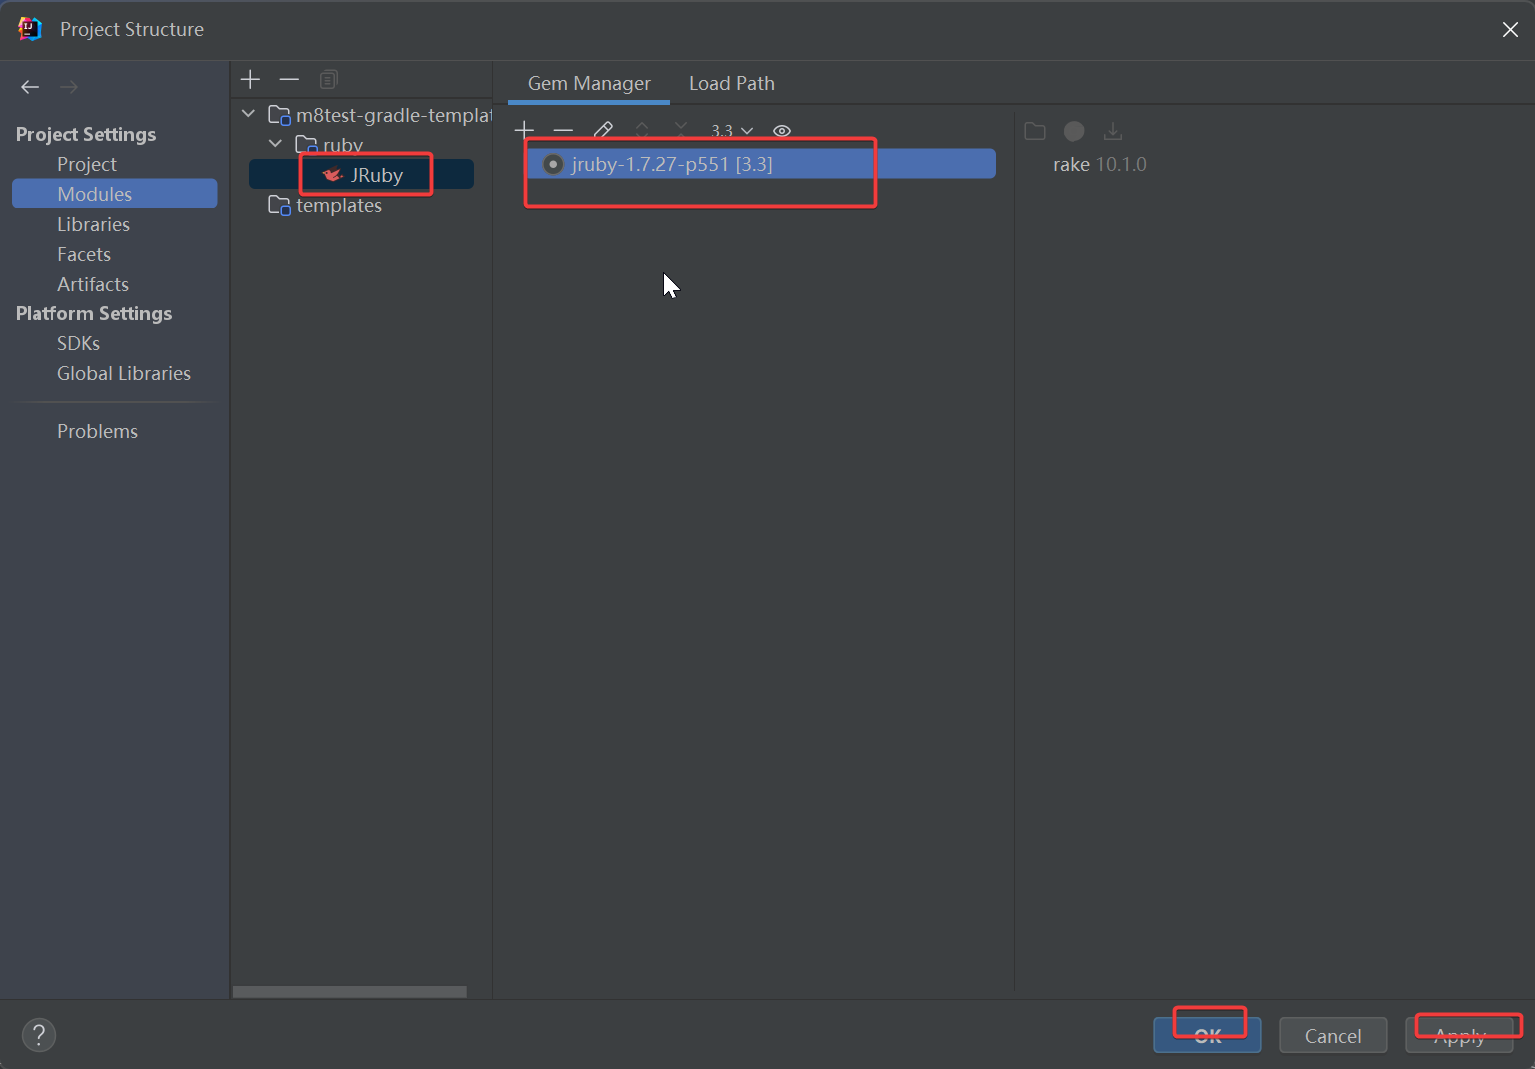
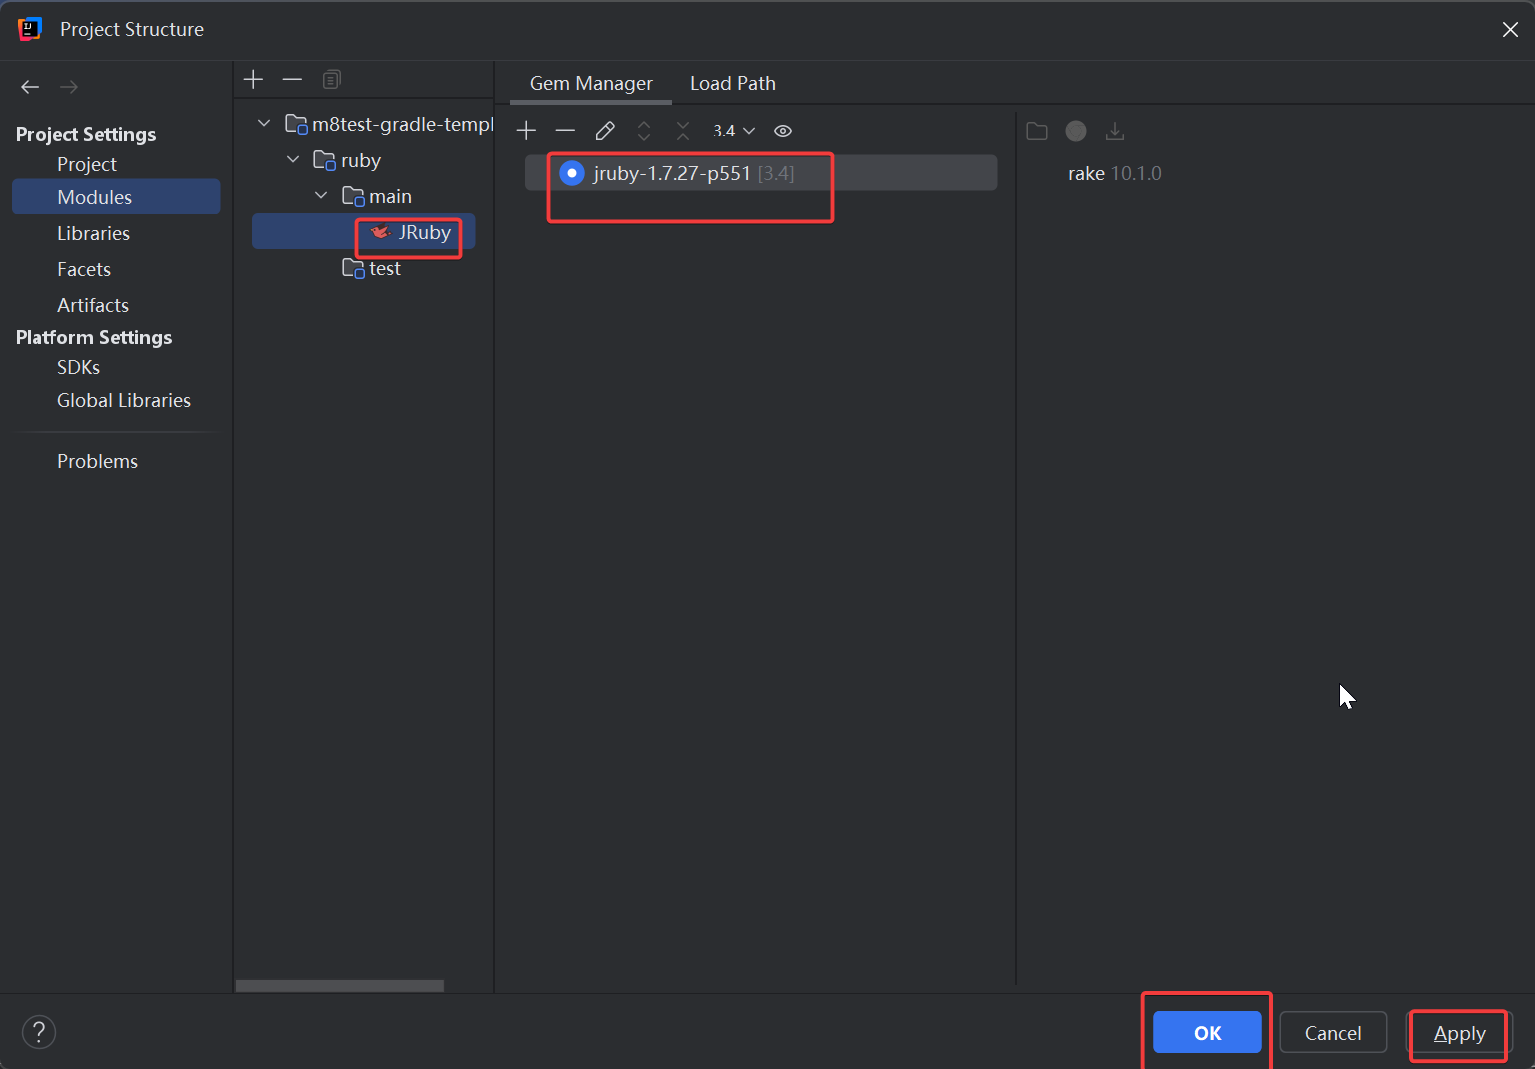
feat: 增加了UI相关代码

diff --git a/ruby/src/main/ruby/com/example/script/primary.rb b/ruby/src/main/ruby/com/example/script/primary.rb
@@ -1,0 +1,27 @@
+# 必须使用相对于src目录的路径
+require 'com/example/tool/ToolB'
+java_import "android.widget.FrameLayout"
+java_import "android.widget.Button"
+java_import "android.view.Gravity"
+toolB = ToolB.new
+toolB.methodB($console)
+# 创建需要显示在界面的内容
+$androidView.create(true) {
+  # @type frameLayout [FrameLayout]
+  |frameLayout|
+  button = Button.new(frameLayout.getContext)
+  button.setText("Hello")
+  @num = 1
+  button.setOnClickListener { |v|
+    @num += 1
+    button.setText("Hello #{@num}")
+  }
+  # java静态内部类以及静态属性需要通过双冒号(::)调用
+  layoutParams = FrameLayout::LayoutParams.new(FrameLayout::LayoutParams::WRAP_CONTENT, FrameLayout::LayoutParams::WRAP_CONTENT)
+  # 居中显示按钮
+  layoutParams.gravity = Gravity::CENTER
+  # 添加按钮到界面
+  frameLayout.addView(button, layoutParams)
+}
+# 启动界面
+$activity.start

diff --git a/ruby/src/main/ruby/com/example/tool/ToolB.rb b/ruby/src/main/ruby/com/example/tool/ToolB.rb
@@ -1,6 +1,8 @@
 require 'com/example/tool/ToolA'
+java_import "com.m8test.script.core.api.console.Console"
 
 class ToolB
+  # @param console [Console]
   def methodB(console)
     toolA = ToolA.new
     toolA.methodA(console)

diff --git a/ruby/src/main/ruby/com/example/tool/ToolA.rb b/ruby/src/main/ruby/com/example/tool/ToolA.rb
@@ -1,4 +1,7 @@
+java_import "com.m8test.script.core.api.console.Console"
+
 class ToolA
+  # @param console [Console]
   def methodA(console)
     console.log("Method A in ToolA called.")
   end

diff --git a/README.md b/README.md
@@ -7,23 +7,32 @@
 
 ## 📦 Gradle 任务说明
 
-1. **`buildM8TestRuby`**  
-   构建 M8Test Ruby 脚本项目源码，但不执行脚本。构建完成后，源码位于 `build/project` 目录。
+### 任务分组
 
-2. **`generateRubyGlobalVariables`**  
-   生成 Ruby 全局变量，提供代码提示功能。需连接安卓设备，建议在编写代码前执行一次。如果 `build.gradle.kts`
-   中的依赖组件更新，需重新执行。
+1. **`m8test-build`**  
+   M8Test构建相关任务组，包含`buildRuby`（构建Ruby项目）、`runRuby`（运行项目）等任务。
 
-3. **`handleRubyAndroidJar`**  
-   生成 Android API 的 Ruby 代码提示文件。此任务耗时较长，执行一次即可。成功后，Ruby 代码中将有 Android API
-   的代码提示。
+2. **`m8test-code-completion`**  
+   M8Test代码补全相关任务组，包含`generateRubyAllCodeCompletionFiles` （生成所有需要的代码补全文件）,
+   `generateRubyGlobalVariables`（生成全局变量代码补全文件）等任务。
 
-4. **`installJRubyInterceptor`**  
-   安装 JRuby 解析器。执行此任务会从网络下载 Ruby 并安装到 `~/.m8test/bin/jruby` 目录。若已安装 JRuby
-   解析器，执行此任务不会重新安装。
+3. **`m8test-developmenet-environment`**  
+   M8Test开发环境相关任务组，包含`installDevelopmentEnvironment`（安装开发环境）、`installRubyPlugin`（安装语言插件）等任务。
 
-5. **`runM8TestRuby`**  
-   构建 M8Test Ruby 脚本项目，并将项目推送到已连接的安卓设备上运行。
+4. **`m8test-download`**  
+   M8Test资源下载相关任务组，包含`downloadRubyCodeTemplate`（下载示例代码模板）、`downloadRubyDocs`（下载文档）等任务。
+
+> 实际开发中主要关注构建任务和代码补全任务即可。
+
+### 常用任务
+
+| 任务名称                            | 任务分组                             | 功能描述                                                                                    |
+|---------------------------------|----------------------------------|-----------------------------------------------------------------------------------------|
+| `generateGroovyGlobalVariables` | `m8test-code-completion`         | 生成Groovy全局变量代码补全文件，提供IDE代码提示功能。需连接安卓设备，建议编写代码前执行一次，依赖更新后需重新执行。                          |
+| `buildGroovy`                   | `m8test-build`                   | 构建M8Test Groovy脚本项目源码（不执行），构建结果位于`build/project`目录。                                     |
+| `runGroovy`                     | `m8test-build`                   | 构建并将项目推送到已连接的安卓设备上运行。                                                                   |
+| `buildGroovyApk`                | `m8test-build`                   | 将M8Test Groovy脚本项目打包成APK文件。                                                             |
+| `installJRubyInterceptor`       | `m8test-development-environment` | 安装 JRuby 解析器。执行此任务会从网络下载 Ruby 并安装到 `~/.m8test/bin/jruby` 目录。若已安装 JRuby 解析器，执行此任务不会重新安装。 |
 
 ---
 
@@ -32,7 +41,7 @@
 ### 方法一：使用快捷搜索
 
 1. 双击 `Ctrl` 键，打开搜索框。
-2. 输入 `gradle 任务名`，例如 `gradle runM8TestRuby`，然后按回车执行。
+2. 输入 `gradle 任务名`，例如 `gradle runRuby`，然后按回车执行。
 
    ![方法一示例](images/1.png)
 
@@ -47,7 +56,7 @@
 ### 方法三：使用终端命令
 
 1. 按下快捷键 `Alt + F12` 打开终端。
-2. 输入命令 `./gradlew 任务名`，例如 `./gradlew runM8TestRuby`，然后按回车执行。
+2. 输入命令 `./gradlew 任务名`，例如 `./gradlew runRuby`，然后按回车执行。
 
    ![方法三示例](images/3.png)
 
@@ -62,15 +71,12 @@
 ## 🛠 项目开发流程
 
 1. **生成全局变量**  
-   执行 `generateRubyGlobalVariables` 任务，生成 Ruby 全局变量，提供代码提示功能。
+   执行`generateGroovyGlobalVariables`任务生成代码补全文件，提供IDE代码提示功能。
 
-2. **生成 Android API 提示文件**  
-   执行 `handleRubyAndroidJar` 任务，生成 Android API 的 Ruby 代码提示文件。
+2. **安装 Ruby 解析器**  
+   执行 `installRubyInterceptor` 任务，安装 Ruby 解析器, 如果使用M8Test集成开发环境的话已经自带JRuby解析器, 此步骤可以跳过。
 
-3. **安装 Ruby 解析器**  
-   执行 `installRubyInterceptor` 任务，安装 Ruby 解析器。
-
-4. **配置 Ruby 解析器**
+3. **配置 Ruby 解析器**
 
    如果项目没有配置ruby解析器就会出现下面的提示, 这时候可以点击 `configure` <br>
 
@@ -92,7 +98,7 @@
 
    ![](images/8.png)
 
-   选择 `Modules` > `ruby` > `Module Sdk 右边的输入框` > `选择jruby sdk`
+   选择 `Modules` > `ruby` > `main` > `Module Sdk 右边的输入框` > `选择jruby sdk`
 
    ![](images/9.png)
 
@@ -120,7 +126,7 @@
 
    ![](images/15.png)
 
-   在 `Project` 视图中 `ruby/src` 目录下鼠标右键 > `Mark Directory as` > `Load Path Root`
+   在 `Project` 视图中 `ruby/src/main/ruby` 目录下鼠标右键 > `Mark Directory as` > `Load Path Root`
 
    ![](images/16.png)
 
@@ -128,11 +134,14 @@
 
    ![](images/17.png)
 
-5. **连接日志服务**
+4. **连接日志服务**
 
    按下快捷键 `Alt + T`，依次选择 `M8Test` > `连接日志服务`。
 
-6. **编写并运行脚本**
+5. **编写并运行脚本**
 
-   编写代码并保存后，执行 `runM8TestRuby` 任务，即可在安卓设备上运行脚本项目。确保安卓设备已开启 ADB 调试。运行日志可在
+   编写代码并保存后，执行 `runRuby` 任务，即可在安卓设备上运行脚本项目。确保安卓设备已开启 ADB 调试。运行日志可在
    M8Test 日志面板中查看。
+
+6. **打包Apk**  
+   所有的脚本开发工作都完整后, 如果你需要打包成独立的apk可以执行 `buildRubyApk` 任务。
